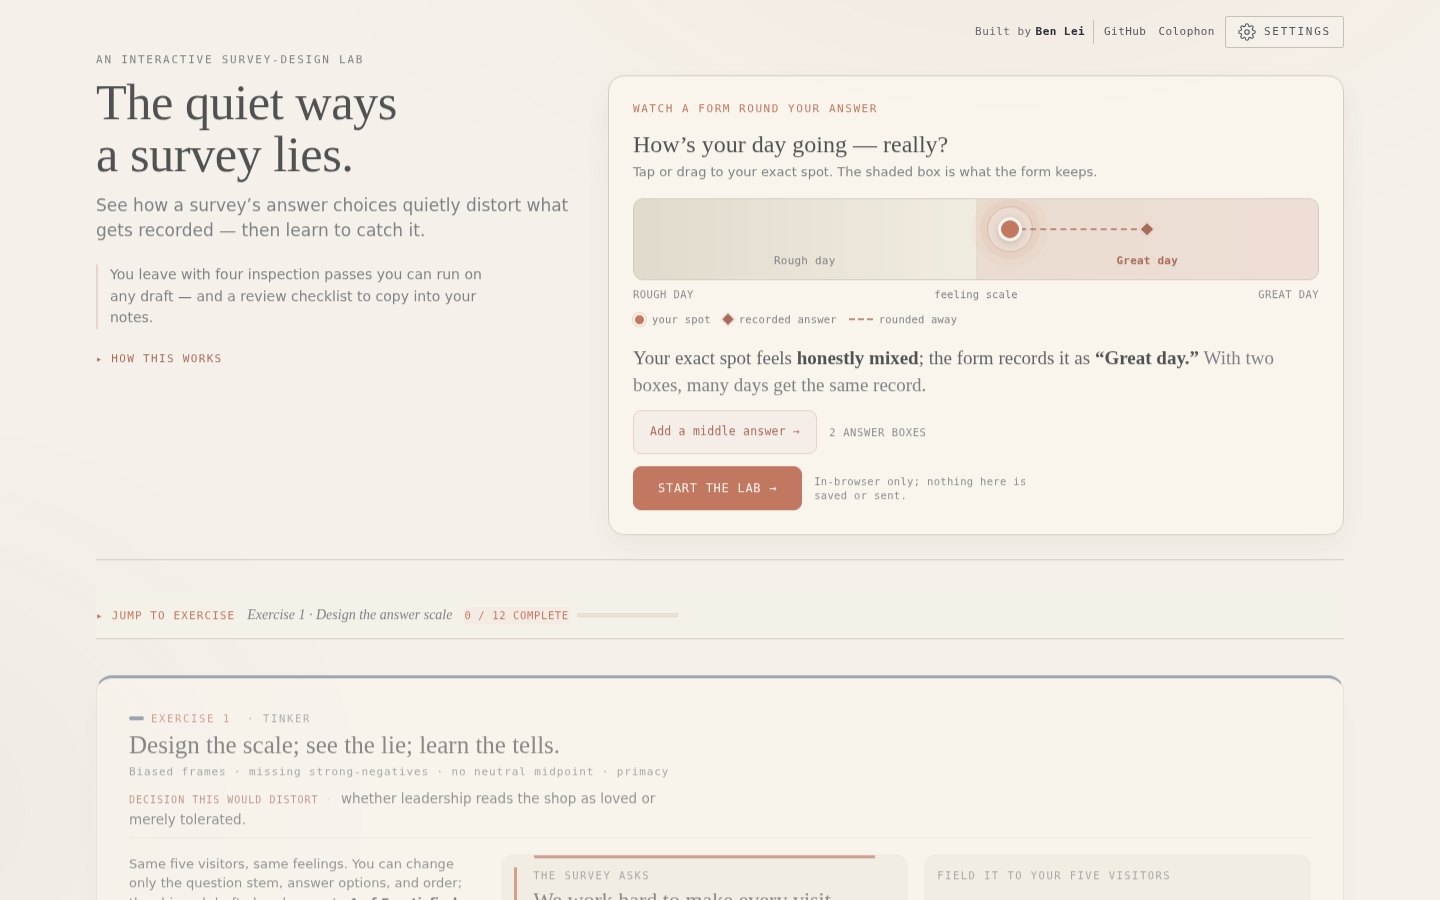
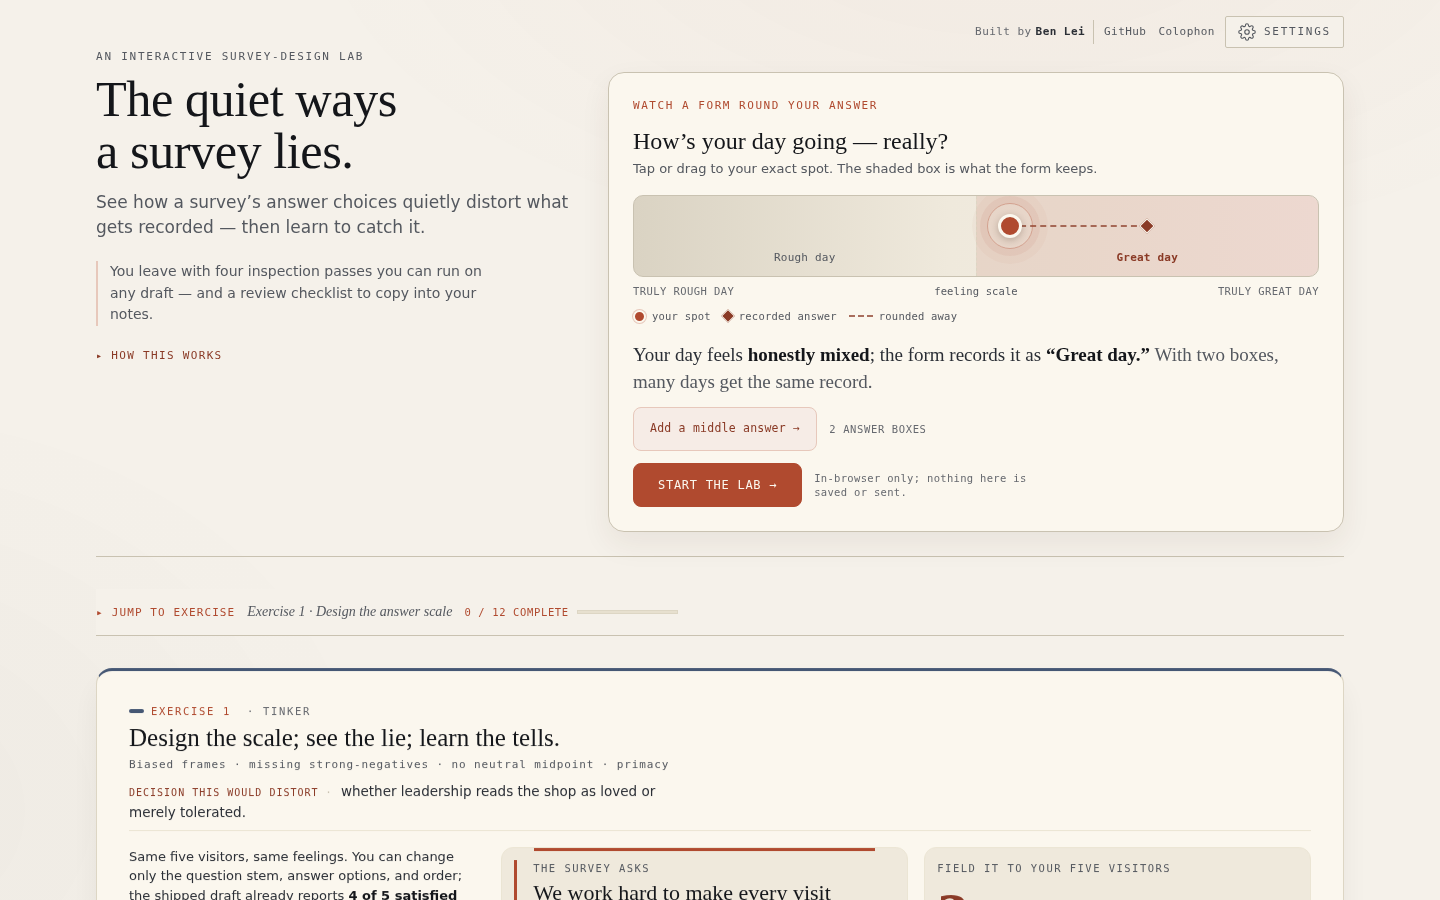
(fix): Align words' meaning in the interactive opening hook exercise.

diff --git a/tests/response-option-fit.spec.ts b/tests/response-option-fit.spec.ts
@@ -398,6 +398,14 @@ test.describe("Response Option Fit Lab - desktop", () => {
     await expect(hook).toContainText("your exact spot");
     await expect(hook).toContainText("recorded answer");
     await expect(hook).toContainText("rounded away");
+    await expect(hook.locator(".lab-hook-axis")).toContainText(
+      "truly rough day"
+    );
+    await expect(hook.locator(".lab-hook-axis")).toContainText(
+      "truly great day"
+    );
+    await expect(readout).toContainText("Your day feels");
+    await expect(readout).not.toContainText("Your exact spot feels");
     await expect(readout).toContainText("honestly mixed");
     await expect(readout).toContainText("Great day");
     await expect(hook).toContainText("2 answer boxes");
@@ -406,19 +414,25 @@ test.describe("Response Option Fit Lab - desktop", () => {
        keyboard and assistive tech. */
     const track = page.getByTestId("lab-hook-track");
     await expect(track).toHaveAttribute("role", "slider");
-    await expect(track).toHaveAttribute("aria-valuetext", /form would record/);
+    await expect(track).toHaveAttribute(
+      "aria-valuetext",
+      /^Your day feels honestly mixed\. The form would record this as Great day\.$/
+    );
     await expect(page.getByTestId("lab-hook-tap-cue")).toBeVisible();
     await track.focus();
     await track.press("Home");
     await expect(track).toHaveAttribute("aria-valuenow", "0");
-    await expect(readout).toContainText("rough");
+    await expect(readout).toContainText("truly rough");
+    await expect(readout).toContainText("Rough day");
+    await expect(readout).toContainText("records it as “Rough day.”");
 
     /* Giving people a middle turns the same placement from a coarse box into a
        finer one — the catchment shrinks. */
     await track.press("End");
     await page.getByTestId("lab-hook-step").click();
     await expect(hook).toContainText("3 answer boxes");
-    await expect(readout).toContainText("Great");
+    await expect(readout).toContainText("truly great");
+    await expect(readout).toContainText("records it as “Great.”");
 
     /* The privacy reassurance is present, and the CTA sends focus into Exercise 1. */
     await expect(page.getByTestId("lab-hook-privacy")).toContainText(

diff --git a/src/components/SatisfactionLab.tsx b/src/components/SatisfactionLab.tsx
@@ -367,13 +367,13 @@ const HOOK_BOX_LABELS: Record<number, string[]> = {
 /* A plain-language word for a placement on the 0..100 feeling strip — used in
    the readout and, crucially, in the slider's aria-valuetext. */
 function feelWord(feel: number): string {
-  if (feel < 12) return "rough";
+  if (feel < 12) return "truly rough";
   if (feel < 30) return "pretty low";
   if (feel < 44) return "a little off";
   if (feel < 56) return "honestly mixed";
   if (feel < 72) return "decent";
   if (feel < 88) return "good";
-  return "great";
+  return "truly great";
 }
 
 /* Which of n even boxes a placement falls into, and that box's center. The
@@ -525,9 +525,9 @@ function HeroProof() {
           />
         </div>
         <p className="lab-hook-axis" aria-hidden="true">
-          <span>rough day</span>
+          <span>truly rough day</span>
           <span className="lab-hook-axis-hint">feeling scale</span>
-          <span>great day</span>
+          <span>truly great day</span>
         </p>
         <div className="lab-hook-legend" aria-label="Diagram legend">
           <span className="lab-hook-legend-item">
@@ -559,7 +559,7 @@ function HeroProof() {
         aria-live="polite"
         data-testid="lab-hero-headline"
       >
-        Your exact spot feels <strong>{feelWord(feel)}</strong>; the form
+        Your day feels <strong>{feelWord(feel)}</strong>; the form
         records it as{" "}
         <strong className="lab-hook-filed">&ldquo;{recordedLabel}.&rdquo;</strong>{" "}
         {n === 2 ? (